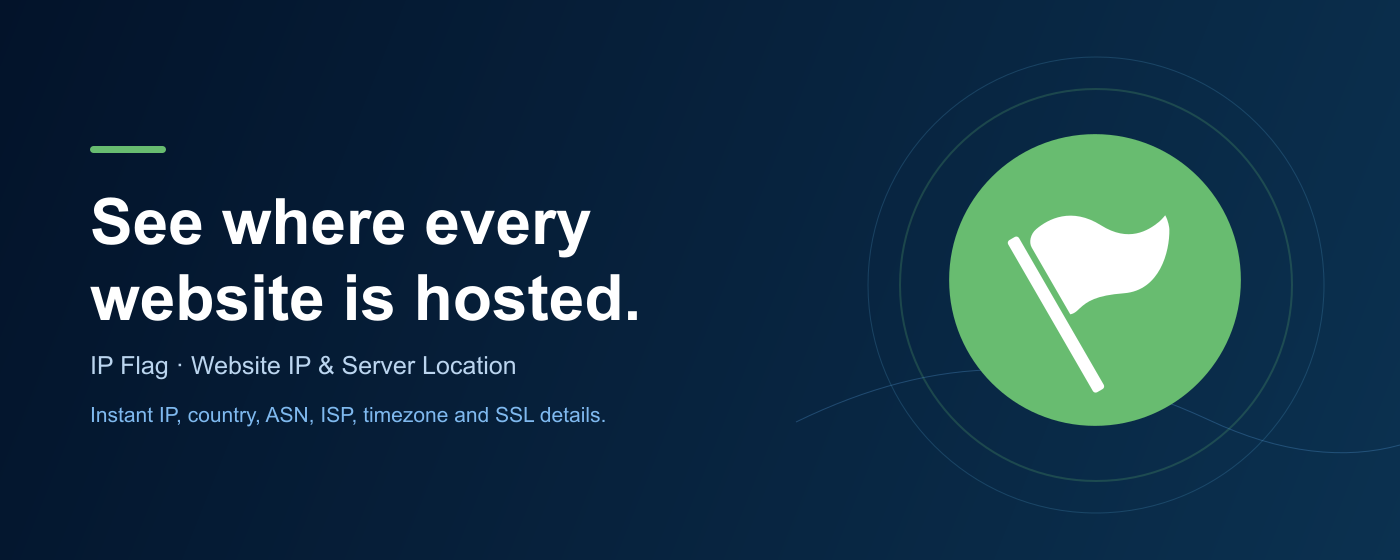
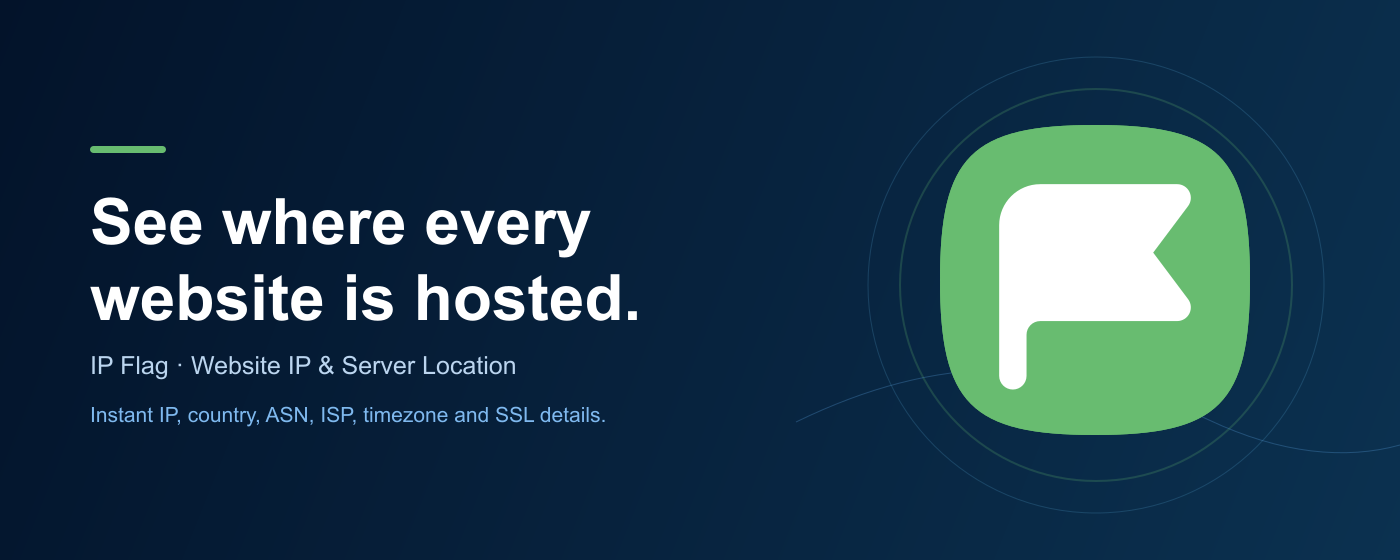
Use enlarged Abstract flag branding

Changed region(s): [[0.645, 0.2125, 0.8907, 0.7893]]

diff --git a/website/app/globals.css b/website/app/globals.css
@@ -7,6 +7,8 @@
   --white: #ffffff;
   --blue: #2857ff;
   --blue-dark: #1839b8;
+  --brand-green: #3d9f5c;
+  --brand-deep: #173b4a;
   --red: #ff4b47;
   --line: #dcded7;
   --night: #111725;
@@ -56,10 +58,15 @@ img {
   align-items: center;
   gap: 11px;
   width: fit-content;
+  color: var(--brand-deep);
   font-family: var(--font-geist-mono), monospace;
   font-size: 15px;
   font-weight: 750;
   letter-spacing: .08em;
+}
+
+.brand:hover {
+  color: var(--brand-green);
 }
 
 .flag-mark {
@@ -67,6 +74,7 @@ img {
   height: 31px;
   display: block;
   object-fit: contain;
+  border-radius: 50%;
 }
 
 .site-header nav {

diff --git a/website/app/page.tsx b/website/app/page.tsx
@@ -7,7 +7,7 @@ import { getTranslation, languages, type Language } from "./translations";
 const CHROME_STORE_URL = "https://chromewebstore.google.com/detail/ipgeo-flag/aaclbfgifnkbhkokgajglhgphjjjcoaa";
 
 function FlagMark() {
-  return <img className="flag-mark" src="/favicon.svg" alt="" aria-hidden="true" />;
+  return <img className="flag-mark" src="/ipflag-icon.svg" alt="" aria-hidden="true" />;
 }
 
 function LanguageSwitcher({ language, onChange }: { language: Language; onChange: (value: Language) => void }) {

diff --git a/website/app/privacy/page.tsx b/website/app/privacy/page.tsx
@@ -39,7 +39,7 @@ export default function PrivacyPage() {
     <main className="legal-page">
       <header className="legal-header shell">
         <Link className="brand" href="/" aria-label="Back to IP Flag home">
-          <img className="flag-mark" src="/favicon.svg" alt="" aria-hidden="true" />
+          <img className="flag-mark" src="/ipflag-icon.svg" alt="" aria-hidden="true" />
           <span>IP FLAG</span>
         </Link>
         <Link className="legal-back" href="/">← Back to home</Link>
